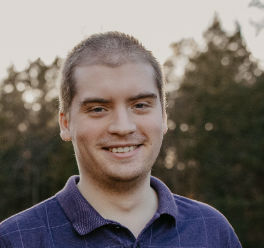
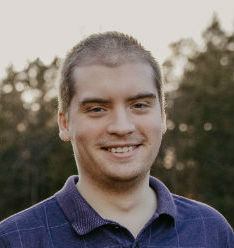
changed photo from square to circle

diff --git a/main.css b/main.css
@@ -129,6 +129,8 @@ a {
 .MitchPhoto {
   padding-top: 30px;
   padding-bottom: 30px;
+  border-radius:50%;
+  overflow:hidden;
 }
 .resume {
   padding-bottom: 100px;
